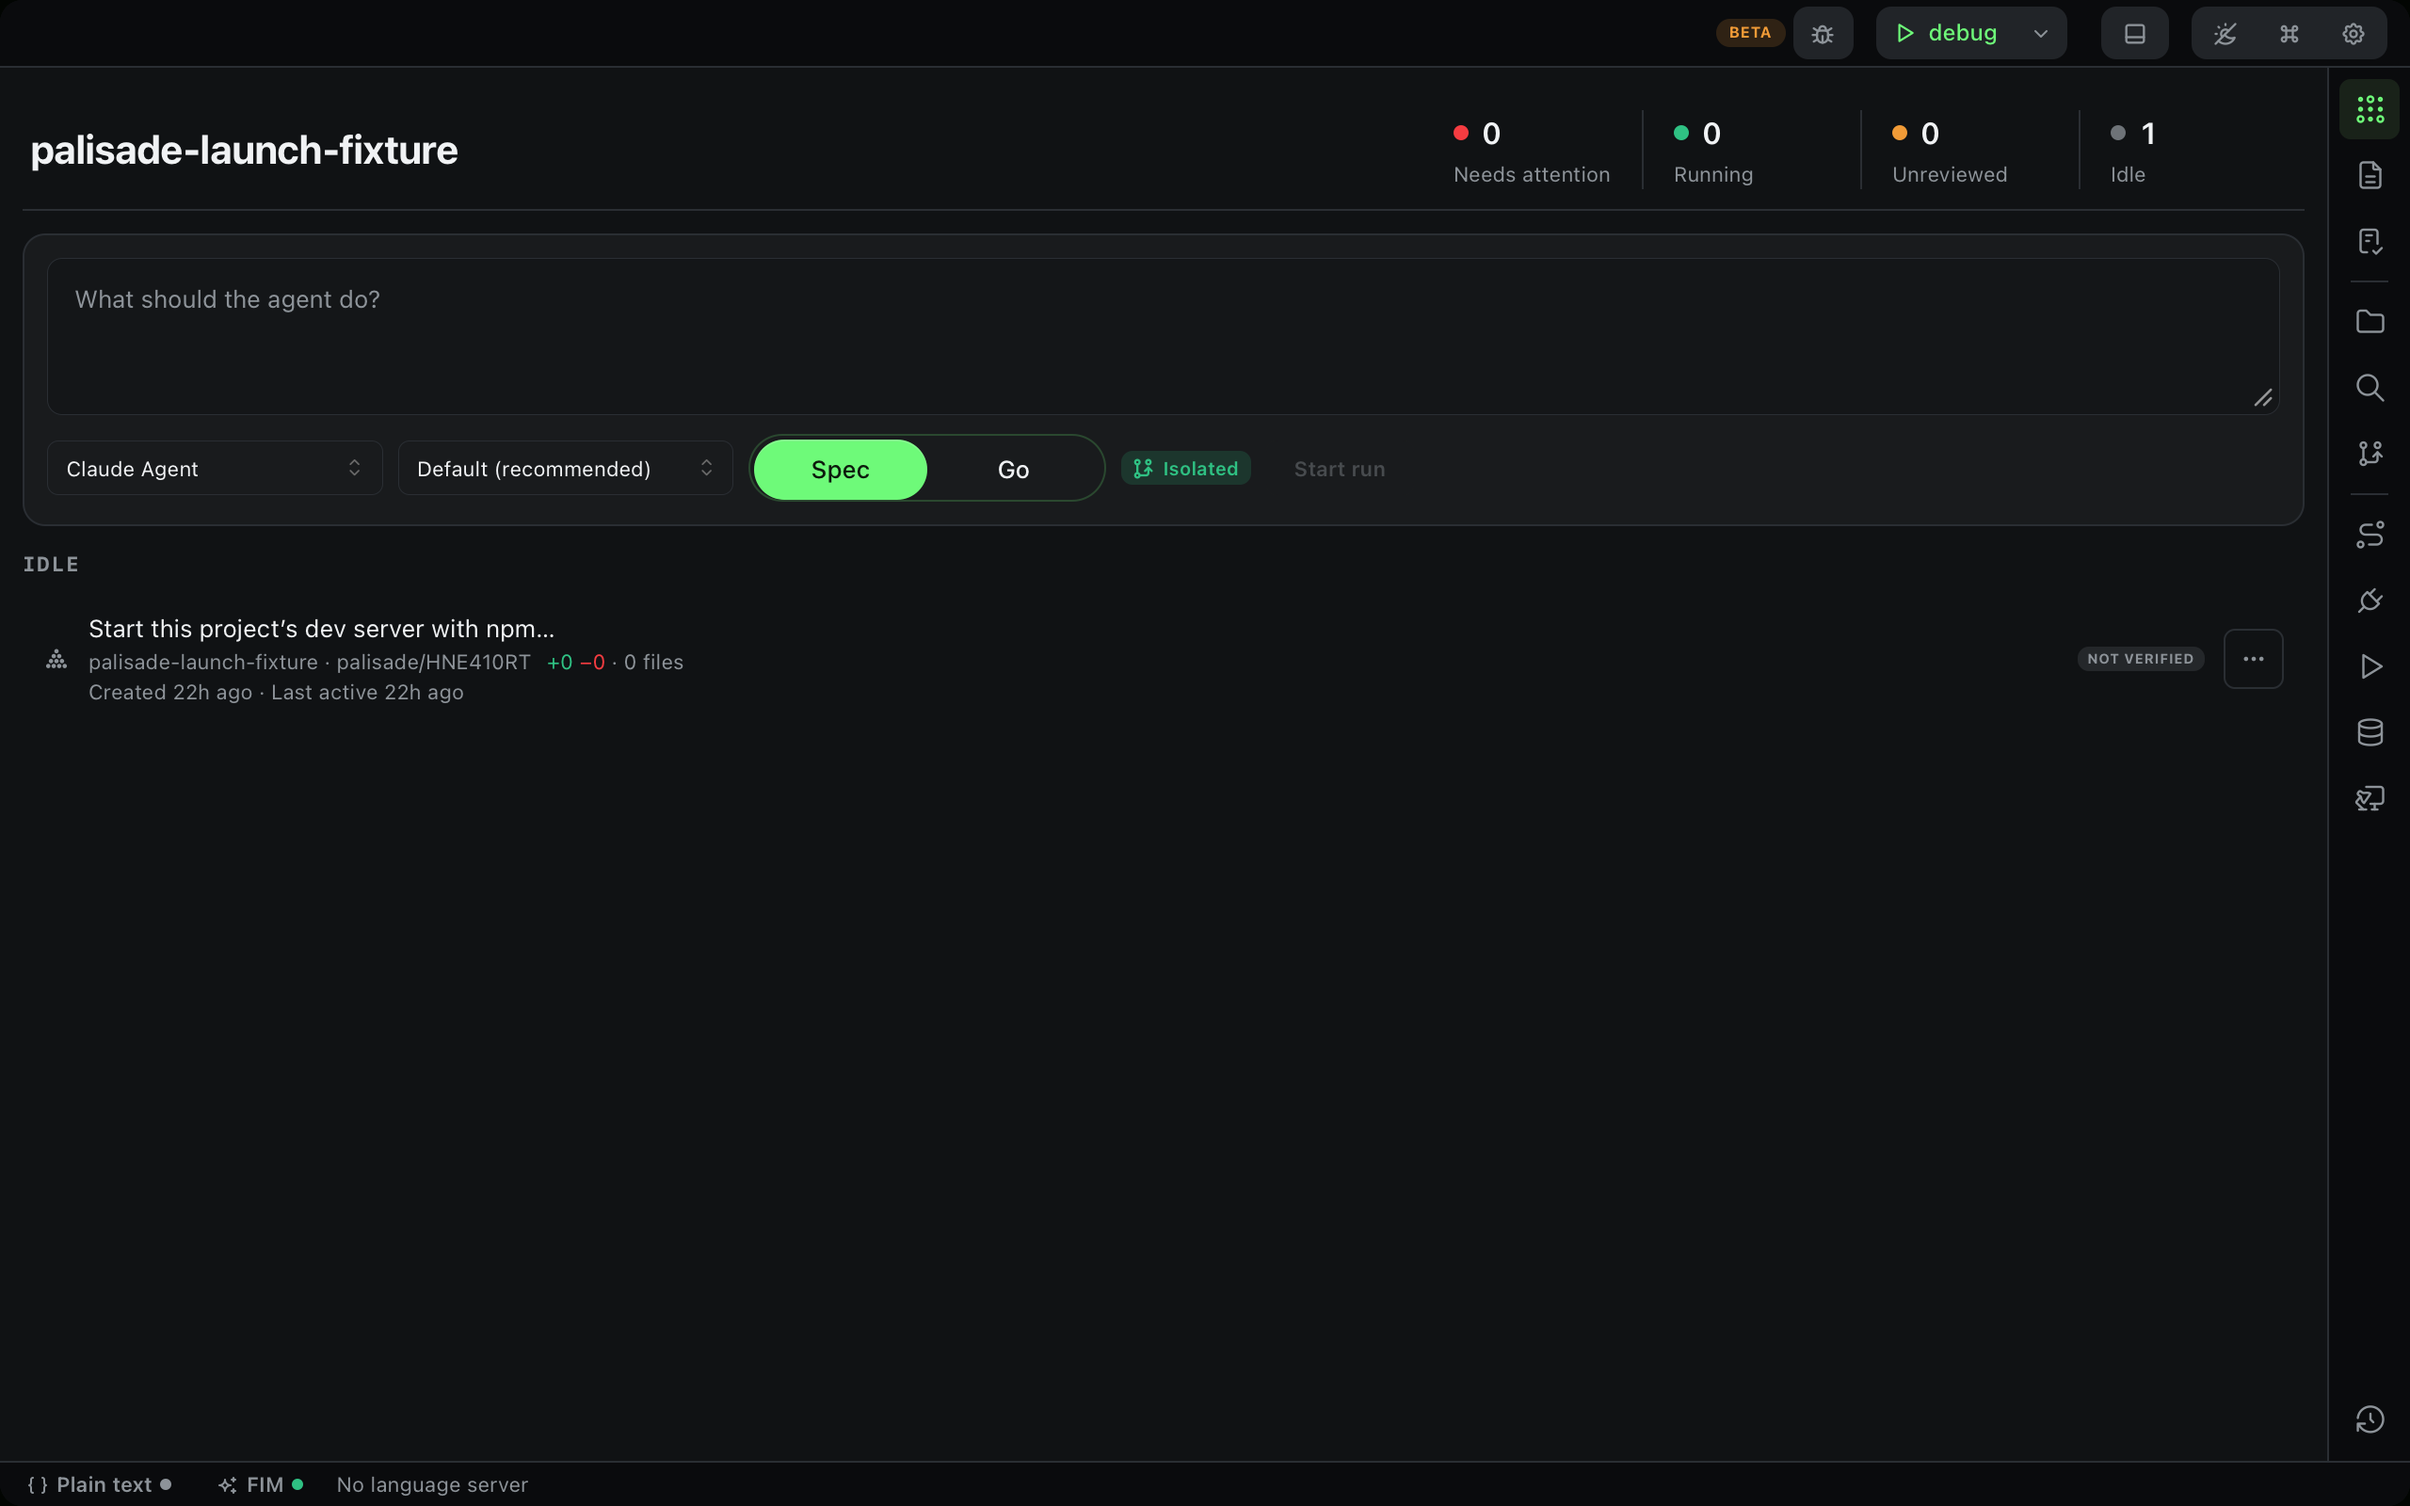
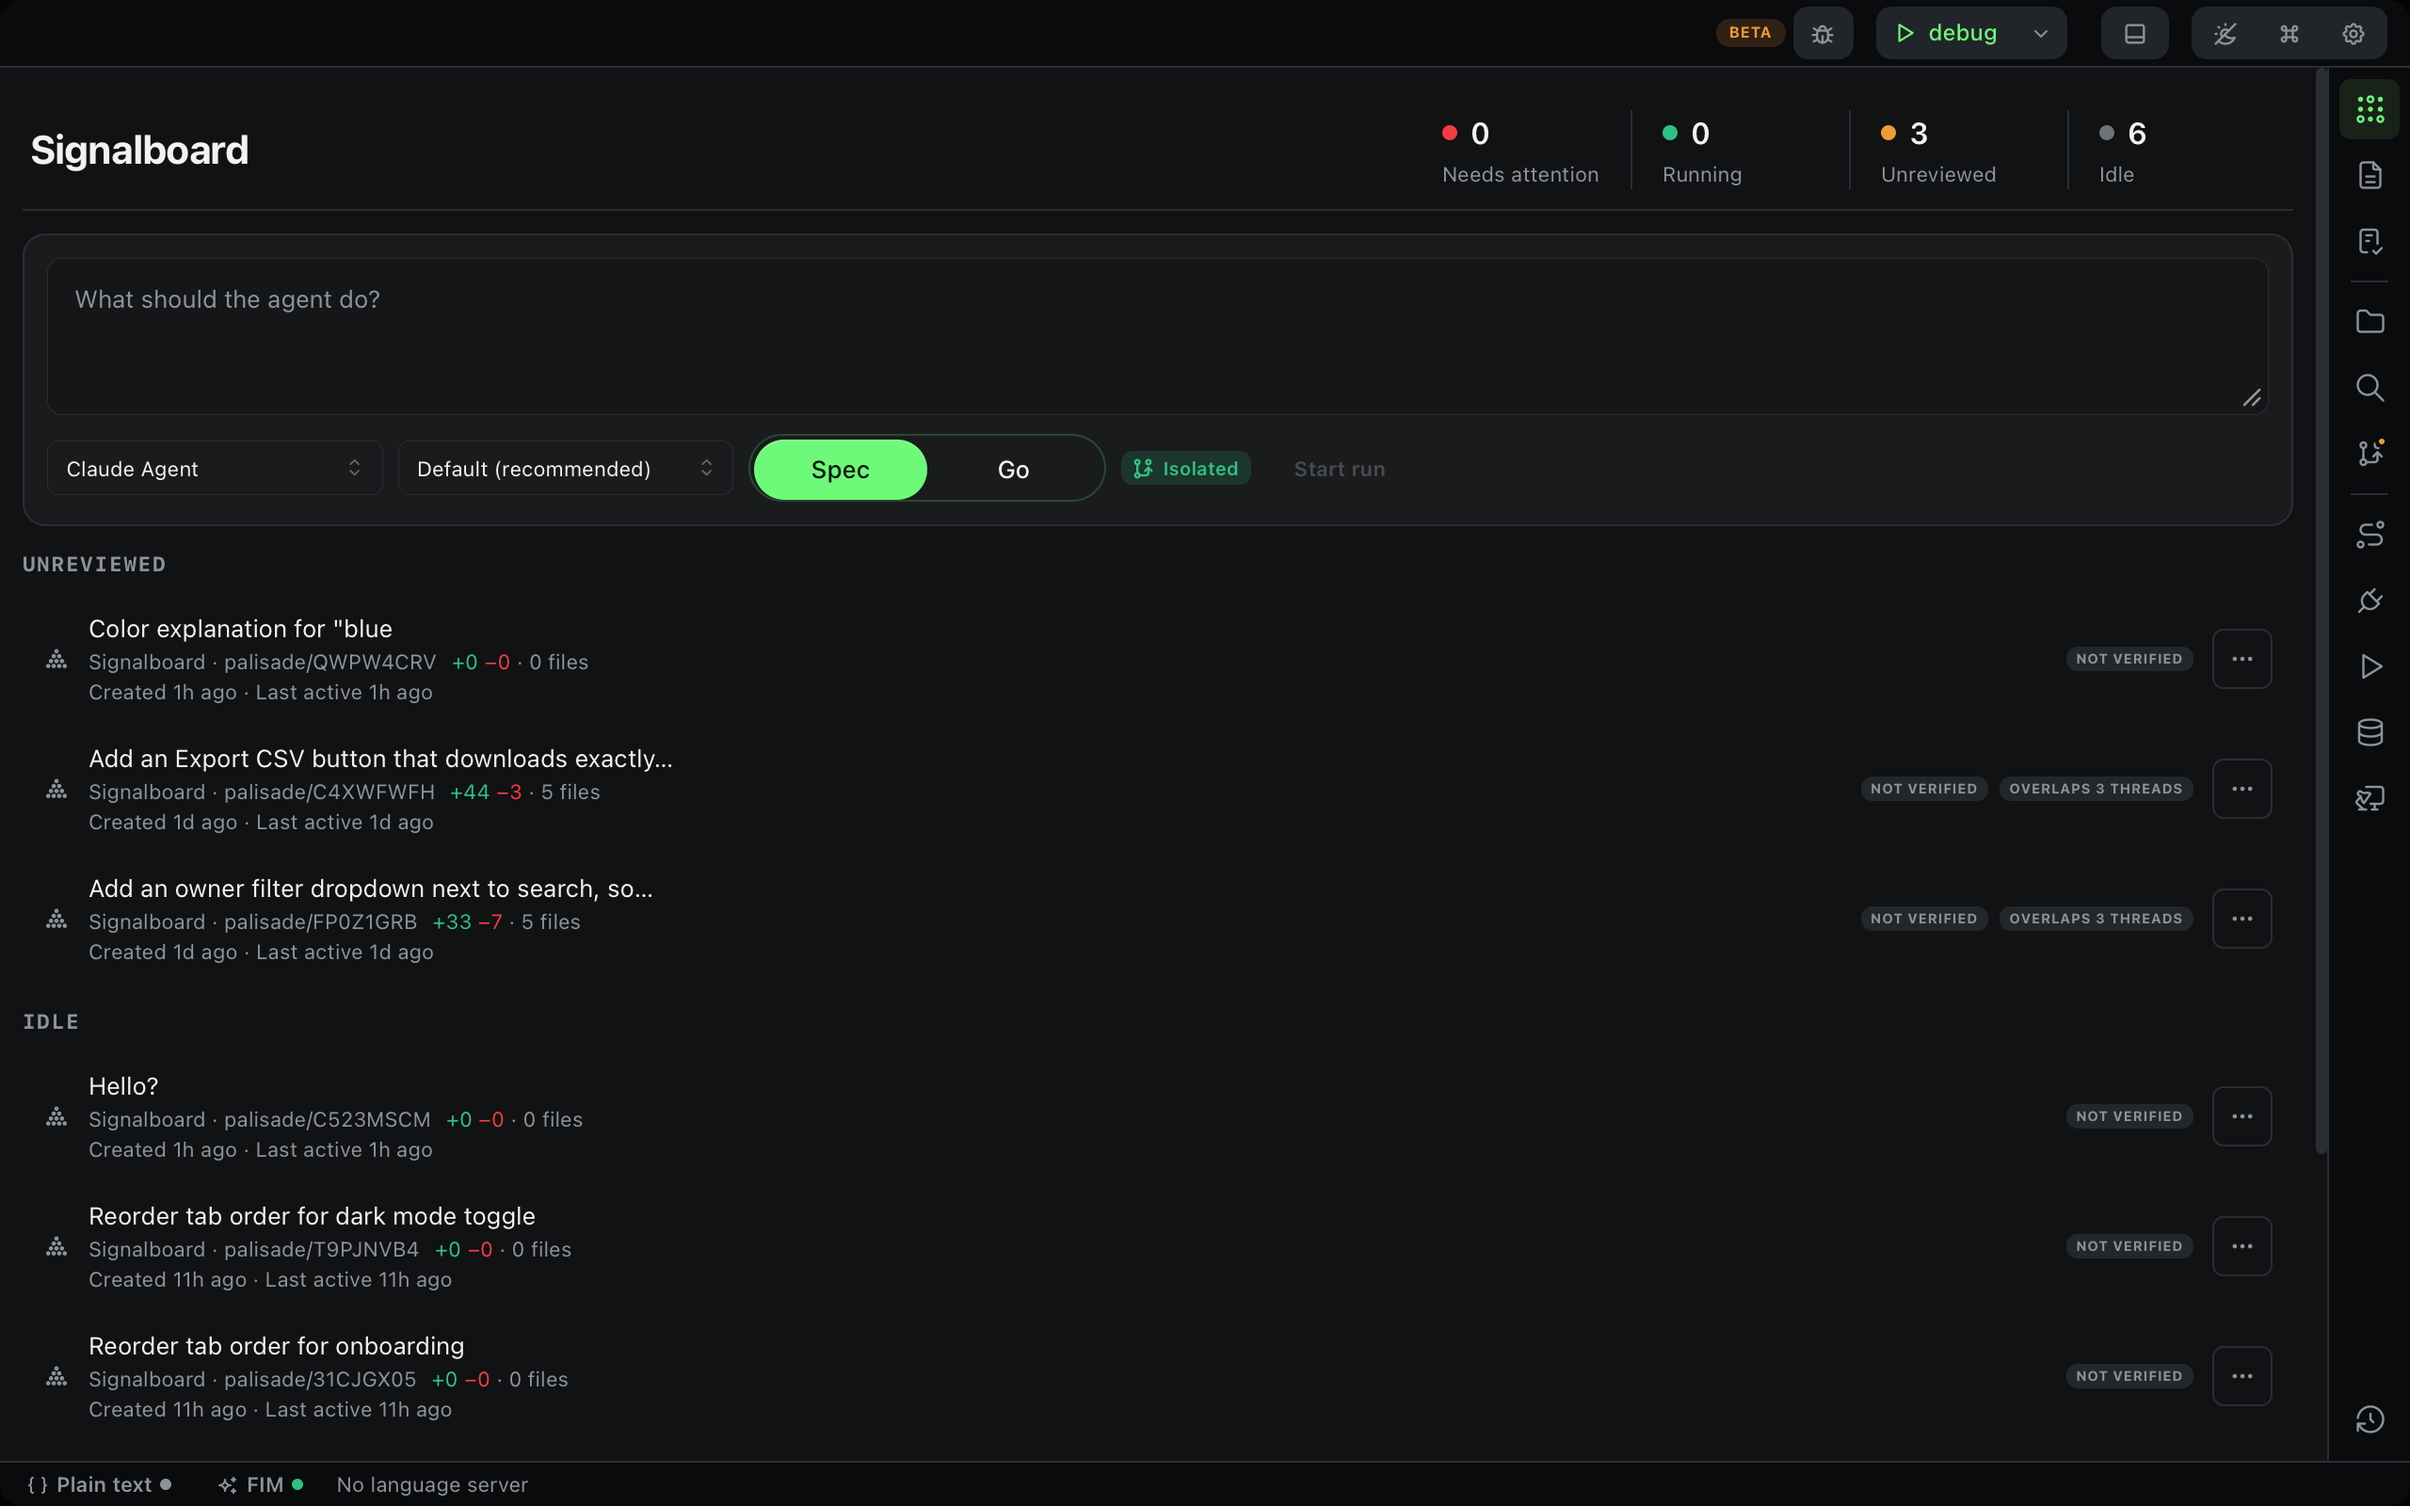
docs: README screenshots from a real project, dogfooding record
Fleet board, thread, Review lane and Playbooks shots replace the sparse
fixture ones; dogfooding and Settings shots for the PR; change log
round 2.

diff --git a/tmp-launch-prep-changelog.md b/tmp-launch-prep-changelog.md
@@ -19,7 +19,34 @@ Decisions confirmed with owner up front:
 - [x] 6. Brooks review of changes and whole app, fix bugs
 - [x] 7. PR (opened from branch `worktree-launch-prep`)
 
-Left behind on purpose: a test playbook `draft-then-review` saved in `/private/tmp/palisade-launch-fixture/.palisade/chains/` while screenshotting. Delete it if the fixture should stay pristine.
+Left behind on purpose: a test playbook `draft-then-review` saved in `/private/tmp/palisade-launch-fixture/.palisade/chains/` while screenshotting, and one Sonnet 5 thread ("Reply with exactly one short sentence…") in the same fixture from the dogfooding run below. Delete either if the fixture should stay pristine.
+
+## Round 2 (same day): the three follow-ups
+
+Owner asked for the three recommended follow-ups; Homebrew was skipped by choice (needs a public tap repo). Flow: red tests → code → Brooks pass → fixes → dogfood live.
+
+### 8. Turn-done notification — commit `feat(notifications): system notification when a turn ends in the background`
+- `tauri-plugin-notification` (Rust 2.4 + JS), `notification:default` capability, `.plugin(tauri_plugin_notification::init())`.
+- `src/turnNotifications.ts`: pure copy (`turnNotification`), the setting (`palisade:notifyTurnDone`, on by default), and `notifyTurnDone` — silent when the window has focus or the setting is off, asks permission once, never throws into the relay. 8 tests.
+- Wired in the executor-event `done`/`crashed` branch for every thread of this window's project (not just the one on screen). Settings › Notifications toggle (test added).
+- **Brooks pass finding, fixed:** envelopes reach every window, so two windows would post the same notification twice → only the window whose project owns the thread posts (also gives it the title).
+- Not verified live: a macOS banner cannot be captured through the webview bridge. The path was exercised by the dogfood run (window unfocused; no plugin errors in the dev log).
+
+### 9. First-run checklist — commits `feat(onboarding): a first-run checklist…`, `fix(onboarding): read the registry state from preflight…`
+- `src/FirstRunChecklist.tsx` replaces the one-line warning when preflight finds no agent: reason (registry unreachable vs nothing on PATH), three numbered steps, a link to the ACP registry (no agent named in code), "Check again" that re-runs `preflight(true)`. Other preflight warnings keep the plain banner. 5 tests.
+- **Brooks pass finding (R2 Information Leakage), fixed:** the reason was parsed out of the Rust warning prose by regex. Preflight now carries a structured `registryReachable`; TS reads that. Rust/TS fixtures updated.
+- Not verified live: needs a Mac with no agent installed; covered by component tests and the preflight Rust tests.
+
+### 10. Dogfooding (fixture project, Sonnet 5, per your rule)
+1. Fleet composer → Go → Sonnet 5 → "Start run": the thread opened, sidebar band read **RUNNING** (`docs/screenshots/dogfood-1-running.png`).
+2. Switched to Fleet while the turn ran; on completion the row moved to **UNREVIEWED**, count 1 (`dogfood-2-unreviewed.png`).
+3. ⌘⇧U jumped to that thread (`dogfood-3-next-unreviewed.png`). **Finding, fixed:** the sidebar still headed it "Unreviewed" until the next 10s poll — the mark-viewed effect now refreshes the fleet right after it records the view.
+4. Settings › Notifications toggle renders, on by default (`settings-notifications.png`).
+
+### README coverage (Signalboard, the owner's real project)
+`fleet.png` (hero: 3 unreviewed, overlap badges, diff stats), `thread.png` (sidebar bands + conversation), `review.png` (5-file diff with Run verify / Merge / Open PR), `playbooks.png` (from the fixture). Opening the "Add an Export CSV button…" thread for the review shot marked it viewed, so it left Signalboard's Unreviewed band.
+
+Gates on the final commit: `pnpm test` 85 files / 1396 tests, `cargo test` 817 passed / 1 ignored, `tsc` clean.
 
 ## Pre-flight audit
 

diff --git a/README.md b/README.md
@@ -16,7 +16,7 @@
 </p>
 
 <p align="center">
-  <img src="docs/screenshots/playbooks.png" alt="A thread on the left, a playbook of two agent nodes on the canvas, the Playbooks panel on the right" width="900">
+  <img src="docs/screenshots/fleet.png" alt="The Fleet board: three finished threads waiting under Unreviewed, six idle, each with its branch, diff stat, verify state and overlap with other threads" width="900">
 </p>
 
 ---
@@ -25,15 +25,19 @@ Palisade is in **public beta**. It is the tool we build Palisade with, every day
 
 ## What it does
 
-- **Fleet board is home.** Every thread across your open projects is a row: needs attention, running, unreviewed, or idle. Agent, diff stat, verify evidence, merge readiness, and overlap with other running threads, all on one screen.
-
-  <img src="docs/screenshots/fleet.png" alt="The Fleet board with its four status counts and a thread row" width="720">
+- **Fleet board is home.** Every thread across your open projects is a row: needs attention, running, unreviewed, or idle. Agent, diff stat, verify evidence, merge readiness, and overlap with other running threads, all on one screen. A finished turn you have not opened yet badges the dock, and ⌘⇧U takes you to the next one.
 - **Any ACP agent, none compiled in.** Claude Code, Codex, and whatever else the [ACP registry](https://agentclientprotocol.com/) lists and you have on `PATH`. Palisade discovers agents at runtime and speaks ACP to all of them. Pick a different agent per thread.
 - **One worktree per thread.** Agents never share a working tree, so two threads can run at once on the same project without stepping on each other.
+
+  <img src="docs/screenshots/thread.png" alt="A thread: the sidebar groups threads by status, the conversation runs in the middle, the editor column on the right" width="720">
 - **Spec, then build.** Two modes only: `spec` writes an [OpenSpec](https://github.com/Fission-AI/OpenSpec) change with the agent's permissions locked down; `go` builds it. OpenSpec stays the source of truth; Palisade never writes a spec file.
 - **Verification is the only evidence.** A change is green because a named `verify` command exited 0 at a named commit. Never because a model said so. Merge stays disabled until that happens, or you override it on purpose and it says so.
 - **Review lane.** Read a thread's diff file by file, with per-file viewed state and the verify evidence beside it, before you merge.
+
+  <img src="docs/screenshots/review.png" alt="The Review lane: five changed files on the left, an inline diff of one of them, Run verify above, Merge and Open PR below" width="720">
 - **Playbooks.** Draw a graph of agent nodes with gates between them (a verify command, or your approval), save it, run it as one unit from any thread with `|=`.
+
+  <img src="docs/screenshots/playbooks.png" alt="A two-node playbook on the canvas beside a thread, with the Playbooks panel on the right" width="720">
 - **The rest of an IDE.** Editor with local fill-in-the-middle completion (a bundled model, no upload), terminals, a native Preview browser per project, git, MCP server management, and a command palette.
 - **Local first.** Session logs, completion telemetry and settings live under `~/.palisade-code`. Network traffic is what you would expect: your agents, your git remotes, the ACP and MCP registries, and update checks.
 
